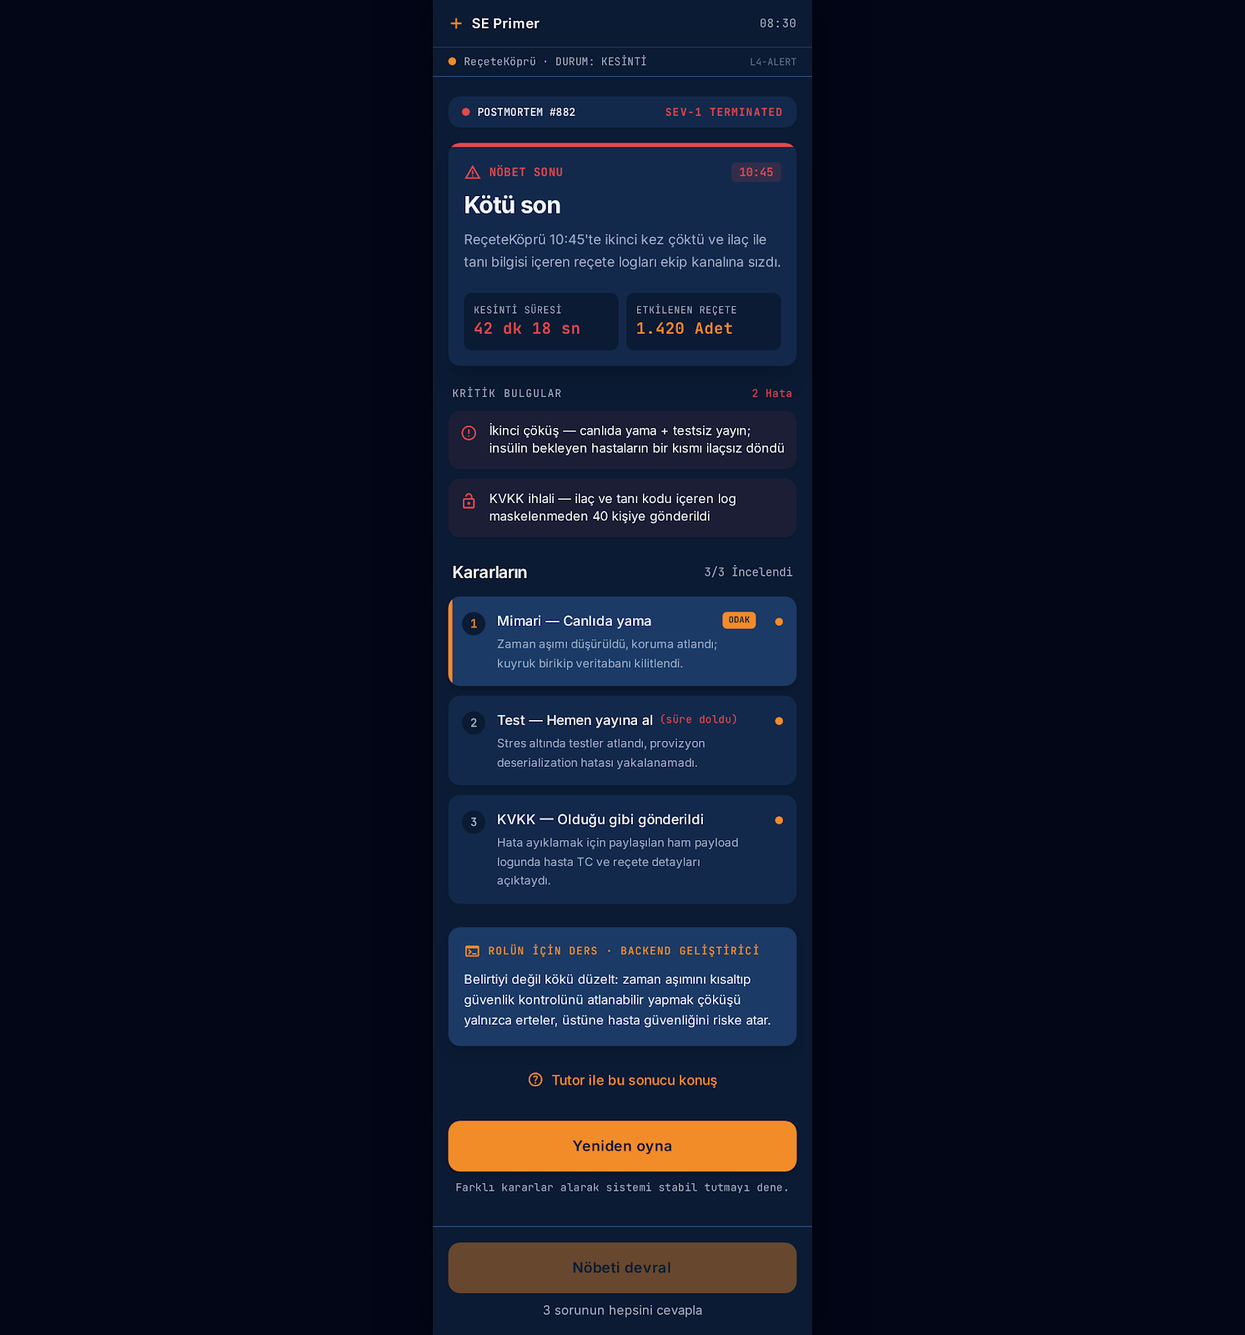
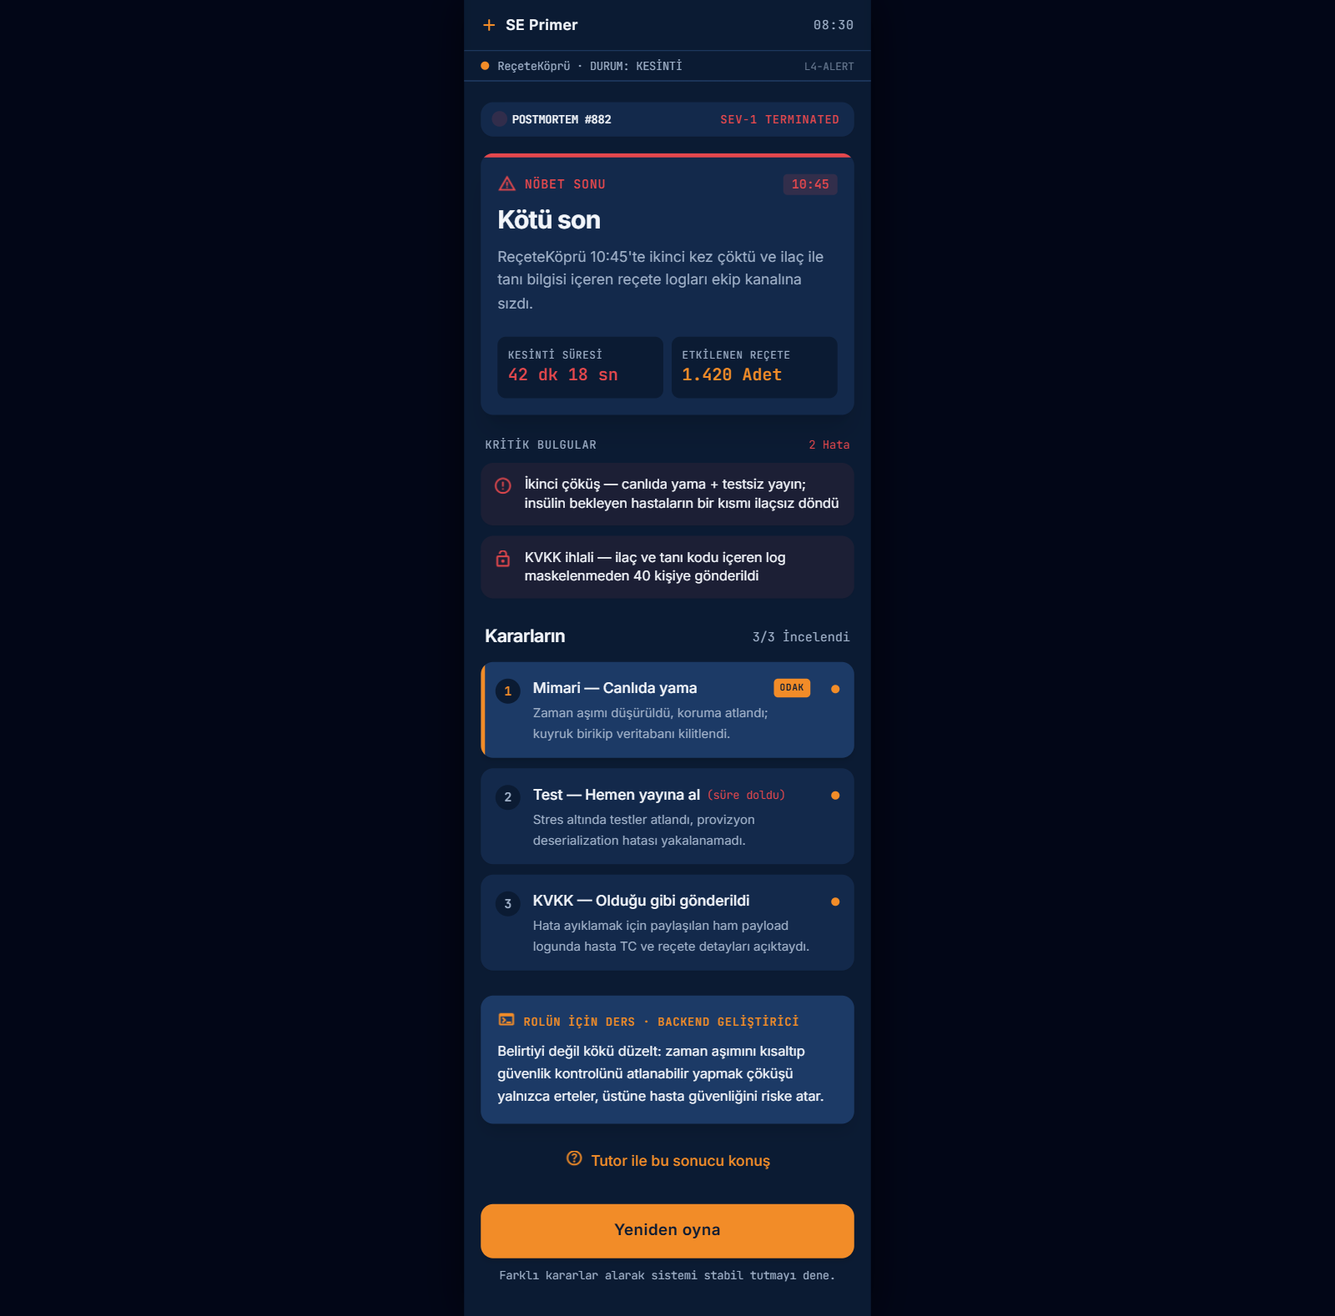
Tasarım-spec uyumsuzlukları çözüldü

Changed region(s): [[0.3389, 0.0, 0.647, 0.9937]]

diff --git a/design/html/son-kotu.html b/design/html/son-kotu.html
@@ -1,14 +1,12 @@
-<!DOCTYPE html>
-
-<html lang="tr"><head>
-<meta charset="utf-8"/>
-<meta content="width=390, initial-scale=1.0, maximum-scale=1.0, user-scalable=no" name="viewport"/>
+<!DOCTYPE html><html lang="tr"><head>
+<meta charset="utf-8">
+<meta content="width=390, initial-scale=1.0, maximum-scale=1.0, user-scalable=no" name="viewport">
 <title>SE Primer - Nöbet Devri</title>
 <!-- Google Fonts: Inter & JetBrains Mono -->
-<link href="https://fonts.googleapis.com" rel="preconnect"/>
-<link crossorigin="" href="https://fonts.gstatic.com" rel="preconnect"/>
-<link href="https://fonts.googleapis.com/css2?family=Inter:wght@400;500;600;700&amp;family=JetBrains+Mono:wght@400;500;600&amp;display=swap" rel="stylesheet"/>
-<link href="https://fonts.googleapis.com/css2?family=Material+Symbols+Outlined:wght,FILL@100..700,0..1&amp;display=swap" rel="stylesheet"/>
+<link href="https://fonts.googleapis.com" rel="preconnect">
+<link crossorigin="" href="https://fonts.gstatic.com" rel="preconnect">
+<link href="https://fonts.googleapis.com/css2?family=Inter:wght@400;500;600;700&amp;family=JetBrains+Mono:wght@400;500;600&amp;display=swap" rel="stylesheet">
+<link href="https://fonts.googleapis.com/css2?family=Material+Symbols+Outlined:wght,FILL@100..700,0..1&amp;display=swap" rel="stylesheet">
 <script src="https://cdn.tailwindcss.com"></script>
 <script id="tailwind-config">
     tailwind.config = {
@@ -63,7 +61,7 @@
       animation: blink 1.4s ease-in-out infinite;
     }
   </style>
-<meta content="mobile_stack" name="shell-type"/></head>
+<meta content="mobile_stack" name="shell-type"></head>
 <body class="bg-slate-950 flex justify-center">
 <div class="mobile-container flex flex-col justify-between overflow-x-hidden text-[#F2F5FA]">
 <!-- TOP SECTION: HEADER & STICKY STATUS -->
@@ -73,7 +71,7 @@
 <!-- Brand Left -->
 <div class="flex items-center gap-2">
 <!-- Pharmacy Plus / Cross Icon in Orange -->
-<svg class="w-4 h-4 text-[#F28C28]" fill="none" stroke="currentColor" stroke-linecap="round" stroke-linejoin="round" stroke-width="2.5" viewbox="0 0 24 24">
+<svg class="w-4 h-4 text-[#F28C28]" fill="none" stroke="currentColor" stroke-linecap="round" stroke-linejoin="round" stroke-width="2.5" viewBox="0 0 24 24">
 <line x1="12" x2="12" y1="5" y2="19"></line>
 <line x1="5" x2="19" y1="12" y2="12"></line>
 </svg>
@@ -94,7 +92,7 @@
 </div>
 </header>
 <!-- MAIN SCROLLABLE CONTENT -->
-<main class="flex-1 px-4 pt-5 pb-36 flex flex-col gap-6"><div class="flex flex-col w-full">
+<main class="flex-1 px-4 pt-5 flex flex-col gap-6 pb-8"><div class="flex flex-col w-full">
 <!-- System Diagnostic Header / Secondary Live Incident Info -->
 <div class="flex items-center justify-between font-mono text-[11px] text-[#9FB0C8] bg-[#13294B] px-3.5 py-2 rounded-xl mb-4 shadow-sm">
 <div class="flex items-center gap-2">
@@ -256,15 +254,8 @@
   </script>
 </div></main>
 <!-- 7. STICKY BOTTOM BUTTON & HELPER TEXT -->
-<div class="fixed bottom-0 left-1/2 -translate-x-1/2 w-[390px] bg-[#0B1B33]/95 backdrop-blur-md border-t border-[#2A4A7A] p-4 flex flex-col items-center gap-2 z-40">
-<!-- Disabled Primary Button: 52px, orange fill, 12px radius, 40% opacity -->
-<button class="w-full h-[52px] rounded-[12px] bg-[#F28C28] text-[#0B1B33] font-semibold text-[15px] tracking-wide flex items-center justify-center opacity-40 cursor-not-allowed select-none" disabled="">
-        Nöbeti devral
-      </button>
-<!-- Secondary Helper Text -->
-<div class="text-[13px] text-[#9FB0C8] font-normal">
-        3 sorunun hepsini cevapla
-      </div>
+
 </div>
-</div>
+
+
 </body></html>

diff --git a/DESIGN.md b/DESIGN.md
@@ -2,9 +2,11 @@
 
 > Stitch projesindeki tasarım sisteminden ve dışa aktarılan HTML'den çıkarılmıştır.
 
+> **Kural:** Metin ve davranışın tek doğru kaynağı spec.md'dir; Stitch ekranları yalnızca görsel referanstır. Ekranlardaki örnek sayılar ve metinler uygulamaya taşınmaz.
+
 Kaynak dosyalar: `design/html/*.html` (Stitch dışa aktarımı), `design/*.png` (ekran görüntüleri).
 Bu belgedeki tüm değerler bu HTML dosyalarında geçen gerçek değerlerdir. HTML'de karşılığı olmayan değerler **belirtilmemiş** olarak işaretlenmiştir.
-Davranış ve metinlerde tek doğruluk kaynağı `spec.md`'dir. Farklar en alttaki uyumsuzluk bölümündedir.
+Ekranlarla spec arasındaki farklar ve her biri için alınan karar en alttaki uyumsuzluk bölümündedir.
 
 ---
 
@@ -241,7 +243,13 @@ Stitch HTML'lerinde **hiç `data-testid` yoktur**. Aşağıdaki adlar `spec.md` 
 
 ## 9. Koşullu görünen bileşenler
 
-Sahne ekranı tasarımda **üç koşullu bileşeni birlikte** göstermektedir. Bu gerçek bir oyun durumu değildir, yalnızca bileşenlerin görünümünü göstermek için bir arada çizilmiştir. Uygulamada:
+**Süre sayacı ile ipucu kartı birbirini dışlar.** Aynı karar ekranında hiçbir zaman birlikte görünmezler:
+
+- **Yeni başladım:** ipucu kartı var, sayaç yok.
+- **Biraz deneyimim var:** ipucu kartı gizli (`hint-toggle` ile açılır), sayaç yok.
+- **Deneyimliyim:** 60 sn sayaç var, ipucu kartı ve `hint-toggle` yok.
+
+Sahne taslağında (`design/sahne.png`) sayacın, ipucu kartının ve odak rozetinin birlikte görünmesinin tek nedeni tüm durumları tek taslakta göstermektir. Bu gerçek bir oyun durumu değildir. Uygulamada:
 
 | Bileşen | `data-testid` | Ne zaman görünür (spec §2) |
 |---|---|---|
@@ -256,42 +264,52 @@ Son ekranında karar özetindeki "ODAK" rozeti ve vurgulu satır da hedefe göre
 
 ## 10. Ekranlar ile spec.md arasındaki uyumsuzluklar
 
-> `spec.md` değiştirilmemiştir. Bu liste uygulama sırasında hangisinin esas alınacağına karar vermek içindir.
+Her maddenin kararı dört seçenekten biridir:
+
+- **spec geçerli:** Uygulamada spec metni ve davranışı kullanılır.
+- **Stitch'te düzeltildi:** Ekran yeniden dışa aktarıldı.
+- **spec'e eklendi:** Eksik tanım spec.md'ye eklendi.
+- **dekoratif öğe, test edilmez:** Görsel olarak kullanılabilir, `data-testid` almaz. Gösterilen sayılar spec'teki senaryoyla (§3: 142 eczane, kuyrukta 1.240 reçete, 10:45'te ikinci çöküş vb.) çelişmemelidir.
 
 ### 10.1 Ekranda olup spec'te olmayan öğeler
 
-1. **Üst çubuk ve durum şeridi** (tüm ekranlar): "SE Primer", saat (08:30 / 10:45 / 12:00), "ReçeteKöprü · DURUM: KESİNTİ / STABİL", "L4-ALERT" / "L4-NORMAL".
-2. **Giriş:** "NÖBET DEVRİ" etiketi, "Nöbetçi sensin" başlığı, "Önce seni tanıyalım…" açıklaması, "ANKET İLERLEMESİ 2 / 3" çubuğu, "3 sorunun hepsini cevapla" yardımcı metni, seviye seçeneklerinin alt açıklamaları ("Her kararda ipucu görürsün." vb.), rol ikonları.
-3. **Sahne:** "Karar 1 / 3" ilerlemesi ve "KRİZ AŞAMASI" etiketi, "MİMARİ" kategori rozeti, izleme satırı ("Kuyruktaki reçete: 1.240 · Etkilenen eczane: 142 · HTTP 503"; sayılar §3'te geçiyor ama UI öğesi olarak tanımlı değil), seçeneklerdeki harf daireleri, tutor alt başlığı "Cevabı söylemez, düşünmeni sağlar.", çevrimiçi noktası, "T" avatarı, sürükleme tutamağı.
-4. **Son ekranları:** "POSTMORTEM #882" şeridi ("SEV-1 TERMINATED" / "ÇÖZÜLDÜ · STABİL"), "NÖBET SONU" etiketi ve saat rozeti, metrik ızgarası (Kötü: "Kesinti süresi 42 dk 18 sn", "Etkilenen reçete 1.420 Adet"; İyi: "14 dk", "Başarılı reçete 1.420 Adet"), "Kritik Bulgular · 2 Hata", "3/3 İncelendi" / "3/3 Başarılı", karar satırlarındaki açıklamalar, "Farklı kararlar alarak sistemi stabil tutmayı dene." metni.
-5. **"Rolün için ders" metinleri** ("Belirtiyi değil kökü düzelt…", "Geri dönüş yolu bir güvenlik ağıdır…"): spec bu kartı tanımlıyor (`ending-role-lesson`) ama metinlerini vermiyor.
-6. **Kötü son ekranında artık kalmış alt çubuk:** Giriş ekranındaki pasif "Nöbeti devral" butonu ve "3 sorunun hepsini cevapla" metni son ekranında da duruyor. Stitch kopyalama hatası, uygulamaya alınmamalı.
-7. **"Yeniden oyna" betiği:** Buton metni "Sistem Sıfırlanıyor..." olur ve sayfayı yeniler (`window.location.reload()`). Spec'te bu metin yok, yalnızca `Karsilama`'ya dönüş var.
-8. **`<title>`:** Son ekranlarında da "SE Primer - Nöbet Devri" yazıyor (giriş ekranından kalma).
+| # | Öğe | Karar |
+|---|---|---|
+| 1 | **Üst çubuk ve durum şeridi** (tüm ekranlar): "SE Primer", saat (08:30 / 10:45 / 12:00), "ReçeteKöprü · DURUM: KESİNTİ / STABİL", "L4-ALERT" / "L4-NORMAL". | dekoratif öğe, test edilmez |
+| 2 | **Giriş:** "NÖBET DEVRİ" etiketi, "Nöbetçi sensin" başlığı, "Önce seni tanıyalım…" açıklaması, "ANKET İLERLEMESİ 2 / 3" çubuğu, "3 sorunun hepsini cevapla" yardımcı metni, seviye seçeneklerinin alt açıklamaları ("Her kararda ipucu görürsün." vb.), rol ikonları. | dekoratif öğe, test edilmez |
+| 3 | **Sahne:** "Karar 1 / 3" ilerlemesi ve "KRİZ AŞAMASI" etiketi, "MİMARİ" kategori rozeti, izleme satırı ("Kuyruktaki reçete: 1.240 · Etkilenen eczane: 142 · HTTP 503"), seçeneklerdeki harf daireleri, tutor alt başlığı "Cevabı söylemez, düşünmeni sağlar.", çevrimiçi noktası, "T" avatarı, sürükleme tutamağı. | dekoratif öğe, test edilmez (izleme satırındaki sayılar §3 ile uyumlu) |
+| 4 | **Son ekranları, postmortem ve metrikler:** "POSTMORTEM #882" şeridi ("SEV-1 TERMINATED" / "ÇÖZÜLDÜ · STABİL"), "NÖBET SONU" etiketi ve saat rozeti, metrik ızgarası (Kötü: "42 dk 18 sn", "1.420 Adet"; İyi: "14 dk", "1.420 Adet"), "Kritik Bulgular · 2 Hata", "3/3 İncelendi" / "3/3 Başarılı", "Farklı kararlar alarak sistemi stabil tutmayı dene." metni. | dekoratif öğe, test edilmez. Ekrandaki "1.420" (§3'te 1.240) ve iyi sondaki "14 dk" (§3 K1-A'da geri dönüş 15 dk, toparlanma 20. dakika) spec'le çeliştiği için uygulamaya taşınmaz. |
+| 5 | **Son ekranları, karar satırı açıklamaları** ("kuyruk birikip veritabanı kilitlendi" vb.). | spec geçerli (karar özeti §3'teki seçimlerden üretilir, bkz. 10.3) |
+| 6 | **"Rolün için ders" metinleri** ("Belirtiyi değil kökü düzelt…", "Geri dönüş yolu bir güvenlik ağıdır…"): Spec kartı tanımlıyordu (`ending-role-lesson`) ama metinlerini vermiyordu. | spec'e eklendi (spec §4.3, rol × son türü tablosu) |
+| 7 | **Kötü son ekranında artık kalmış alt çubuk:** Giriş ekranından kalan pasif "Nöbeti devral" butonu ve "3 sorunun hepsini cevapla" metni. | Stitch'te düzeltildi (`design/son-kotu.png` ve `design/html/son-kotu.html` yenilendi) |
+| 8 | **"Yeniden oyna" betiği:** Buton metni "Sistem Sıfırlanıyor..." olur ve sayfa yenilenir (`window.location.reload()`). | spec'e eklendi (spec §4.5: sayfa yenilenmez, durum ve profil sıfırlanır, `Karsilama`'ya dönülür) |
+| 9 | **`<title>`:** Son ekranlarında da "SE Primer - Nöbet Devri" yazıyor. | dekoratif öğe, test edilmez |
 
 ### 10.2 Spec'te olup ekranda olmayan öğeler
 
-1. **Ekranlar:** E1 Karşılama (`start-button`), E3 Kriz brifingi (`briefing-text`, `briefing-role-message`, `briefing-continue`), E5 Sonuç ekranı (`outcome-what`, `outcome-why`, `outcome-timeout-note`, `outcome-deep` "Derinlemesine" bölümü, `outcome-continue`).
-2. **`data-testid`'ler:** Stitch HTML'lerinin hiçbirinde yok.
-3. **Sahne:** `hint-toggle` ("İpucu göster") butonu çizilmemiş. `tutor-open` butonu görünmüyor (panel açık çizildiği için tetikleyici yok). `tutor-loading` göstergesi yok.
-4. **Sahne, koşul çelişkisi:** Sayaç (yalnızca deneyimli) ile ipucu kartı (deneyimlide hiç yok) aynı anda gösteriliyor. Spec §2.1'e göre bu iki öğe aynı oyunda birlikte bulunamaz (bkz. §9).
-5. **Kötü son:** §3'teki **klinik sonuç notu** (ikinci çöküş nedeninde gösterilecek) ekranda yok.
-6. **İyi son:** *Kıl payı* İYİ durumu (#2, #3) için riskli kararı belirten bir öğe tasarlanmamış. Ekranda yalnızca temiz İYİ (#1) var.
-7. **Süre doldu notu:** Sahnede yok (E5'e ait). Son ekranında yalnızca "(süre doldu)" etiketi var.
+| # | Öğe | Karar |
+|---|---|---|
+| 1 | **Ekranlar:** E1 Karşılama (`start-button`), E3 Kriz brifingi (`briefing-text`, `briefing-role-message`, `briefing-continue`), E5 Sonuç ekranı (`outcome-what`, `outcome-why`, `outcome-timeout-note`, `outcome-deep` "Derinlemesine" bölümü, `outcome-continue`). | spec geçerli (ekranlar spec'e göre, bu belgedeki görsel dille yapılır) |
+| 2 | **`data-testid`'ler:** Stitch HTML'lerinin hiçbirinde yok. | spec geçerli (§8'deki adlar kullanılır) |
+| 3 | **Sahne:** `hint-toggle` ("İpucu göster") butonu, `tutor-open` butonu (panel açık çizildiği için tetikleyici yok) ve `tutor-loading` göstergesi çizilmemiş. | spec geçerli |
+| 4 | **Sahne, koşul çelişkisi:** Sayaç ile ipucu kartı aynı anda gösteriliyor. | spec geçerli (birbirini dışlar, spec §2.1; bkz. §9) |
+| 5 | **Kötü son:** §3'teki **klinik sonuç notu** (ikinci çöküş nedeninde gösterilecek) ekranda yok. | spec geçerli |
+| 6 | **İyi son:** *Kıl payı* İYİ durumu (#2, #3) için riskli kararı belirten bir öğe tasarlanmamış. Ekranda yalnızca temiz İYİ (#1) var. | spec geçerli |
+| 7 | **Süre doldu notu:** Sahnede yok (E5'e ait). Son ekranında yalnızca "(süre doldu)" etiketi var. | spec geçerli |
 
 ### 10.3 Metin farkları
 
-| Yer | Ekrandaki metin | spec.md'deki metin |
-|---|---|---|
-| Giriş, profil butonu | "Nöbeti devral" | "Devam" (§8 E2, `profile-submit`) |
-| Giriş, hedef seçeneği | "Mimari ve dağıtım kararları" | "Mimari / dağıtım kararları" (§2.3) |
-| Sahne, seçenek A | "A · Geri dön" / "v3.1 sürümüne rollback" | "Geri dön (v3.1'e rollback)" |
-| Sahne, seçenek B açıklaması | "Zaman aşımını kısalt, etkileşim kontrolünü atlanabilir yap" | "zaman aşımını kısalt, kontrolü atlanabilir yap" |
-| Son ekranları, tutor tetikleyici | "Tutor ile bu sonucu konuş" | "Tutor'u aç" (§8 E6) |
-| Kötü son, açıklama | "ReçeteKöprü 10:45'te ikinci kez çöktü ve ilaç ile tanı bilgisi içeren reçete logları ekip kanalına sızdı." | İki ayrı metin: "…10:45'te ikinci kez çöktü. İnsülin ve tansiyon ilacı bekleyen hastaların bir kısmı ilaçsız eve döndü." ve "İlaç ve tanı bilgisi içeren reçete logu, dış tedarikçi dahil 40 kişiye maskelenmeden gitti. Kurum ihlali KVK Kurulu'na bildirdi." (§4.3) |
-| Kötü son, K1 satırı | "Zaman aşımı düşürüldü, koruma atlandı; kuyruk birikip veritabanı kilitlendi." | Veritabanı kilitlenmesi yok. Neden: kapatılmayan bağlantılar ve tekrar deneme yükü, fail-open kontrol (§3 K1-B) |
-| Kötü son, K2 satırı | "…provizyon deserialization hatası yakalanamadı." | Deserialization hatası yok. Neden: devre kesici ayarlarının elle değiştirilen zaman aşımıyla çakışması, tekrar deneme fırtınası (§3 K2-B) |
-| İyi son, K1 satırı ve metrik | "…provizyon kilitlenmesi anında çözüldü." / "Kesinti süresi 14 dk" | Geri dönüş 15 dk sürer, bazı eczaneler 20. dakikada toparlanır (§3 K1-A) |
-| İyi son, K2 satırı | "Temel işlevler ve reçete provizyonu hızlı regresyon testiyle doğrulandı." | Staging'de 20 dk hedefli test (provizyon yavaş yanıt simülasyonu + yük). Devre kesicideki fail-open hatasını yakalar (§3 K2-A) |
-| Kötü / İyi son, etkilenen reçete | "1.420 Adet" | Kuyrukta 1.240 reçete (§3). 1.420 değeri spec'te yok |
-| Giriş ↔ sahne/son tutarlılığı | Girişte seçili rol "Test / QA mühendisi" | Sahne ve son ekranlarında rol "Backend geliştirici" gösteriliyor (örnek ekranlar farklı profillerle çizilmiş) |
+| Yer | Ekrandaki metin | spec.md'deki metin | Karar |
+|---|---|---|---|
+| Giriş, profil butonu | "Nöbeti devral" | "Devam" (§8 E2, `profile-submit`) | spec geçerli |
+| Giriş, hedef seçeneği | "Mimari ve dağıtım kararları" | "Mimari / dağıtım kararları" (§2.3) | spec geçerli |
+| Sahne, seçenek A | "A · Geri dön" / "v3.1 sürümüne rollback" | "Geri dön (v3.1'e rollback)" | spec geçerli |
+| Sahne, seçenek B açıklaması | "Zaman aşımını kısalt, etkileşim kontrolünü atlanabilir yap" | "zaman aşımını kısalt, kontrolü atlanabilir yap" | spec geçerli |
+| Son ekranları, tutor tetikleyici | "Tutor ile bu sonucu konuş" | "Tutor'u aç" (§8 E6) | spec geçerli |
+| Kötü son, açıklama | "ReçeteKöprü 10:45'te ikinci kez çöktü ve ilaç ile tanı bilgisi içeren reçete logları ekip kanalına sızdı." | Nedene göre iki ayrı metin (§4.3): ikinci çöküş ve KVKK ihlali | spec geçerli |
+| Kötü son, K1 satırı | "Zaman aşımı düşürüldü, koruma atlandı; kuyruk birikip veritabanı kilitlendi." | Veritabanı kilitlenmesi yok. Neden: kapatılmayan bağlantılar ve tekrar deneme yükü, fail-open kontrol (§3 K1-B) | spec geçerli |
+| Kötü son, K2 satırı | "…provizyon deserialization hatası yakalanamadı." | Deserialization hatası yok. Neden: devre kesici ayarlarının elle değiştirilen zaman aşımıyla çakışması, tekrar deneme fırtınası (§3 K2-B) | spec geçerli |
+| İyi son, K1 satırı ve metrik | "…provizyon kilitlenmesi anında çözüldü." / "Kesinti süresi 14 dk" | Geri dönüş 15 dk sürer, bazı eczaneler 20. dakikada toparlanır (§3 K1-A) | spec geçerli |
+| İyi son, K2 satırı | "Temel işlevler ve reçete provizyonu hızlı regresyon testiyle doğrulandı." | Staging'de 20 dk hedefli test (provizyon yavaş yanıt simülasyonu + yük), devre kesicideki fail-open hatasını yakalar (§3 K2-A) | spec geçerli |
+| Kötü / İyi son, etkilenen reçete | "1.420 Adet" | Kuyrukta 1.240 reçete (§3). 1.420 değeri spec'te yok | dekoratif öğe, test edilmez. Spec'le çelişen sayı uygulamaya taşınmaz. |
+| Giriş ↔ sahne/son tutarlılığı | Girişte seçili rol "Test / QA mühendisi" | Sahne ve son ekranlarında rol "Backend geliştirici" (örnek ekranlar farklı profillerle çizilmiş) | spec geçerli (rol kartı ve ders metni seçilen role göre §2.2 ve §4.3'ten gelir) |

diff --git a/spec.md b/spec.md
@@ -34,6 +34,8 @@ Oyun başında profil ekranında **3 soru** sorulur. Cevaplar oturum boyunca bel
 | **Biraz deneyimim var** | İpucu gizlidir. "İpucu göster" butonuyla açılabilir. | Yok | Açık |
 | **Deneyimliyim** | İpucu **hiç yoktur** (kutu ve buton gösterilmez). | **Her karar ekranında 60 sn** | Açık (süre işlemeye devam eder) |
 
+İpucu kartı ile süre sayacı birbirini dışlar: hiçbir seviyede aynı karar ekranında birlikte görünmezler (yeni başlayan: ipucu kartı var, sayaç yok; deneyimli: 60 sn sayaç var, ipucu kartı yok).
+
 İpucu metinleri (bkz. §3) cevabı söylemez, yalnızca düşünülecek boyutu gösterir. Tutor kuralları ipuçları için de geçerlidir (§5).
 
 ### 2.2 Soru 2 — Rol: "Bu krizde hangi roldesin?"
@@ -227,6 +229,14 @@ KÖTÜ  ⇔  (k3 = ham)  VEYA  (k1 = yama VE k2 = hemen)
 - **KÖTÜ / ikinci çöküş:** "ReçeteKöprü 10:45'te ikinci kez çöktü. İnsülin ve tansiyon ilacı bekleyen hastaların bir kısmı ilaçsız eve döndü." Bunun ardından §3'teki klinik sonuç notu gösterilir.
 - **KÖTÜ / KVKK ihlali:** "İlaç ve tanı bilgisi içeren reçete logu, dış tedarikçi dahil 40 kişiye maskelenmeden gitti. Kurum ihlali KVK Kurulu'na bildirdi."
 
+**"Rolün için ders" metinleri** (`ending-role-lesson`). Metin, oyuncunun rolüne ve son türüne göre seçilir. Kıl payı İYİ de İYİ metnini kullanır. KÖTÜ metni hem ikinci çöküş hem KVKK ihlali nedeni için geçerlidir.
+
+| Rol | İYİ son | KÖTÜ son |
+|---|---|---|
+| **Backend geliştirici** | "Bağımlı bir servis yavaşladığında sistemin ne yapacağı bir tasarım kararıdır. Zaman aşımı, devre kesici ve fail-closed kontrol kök nedeni çözer. Canlıda yapılan hızlı bir ayar ise yalnızca belirtiyi örter." | "Canlıda elle yapılan bir ayar da, maskelenmemiş bir log satırı da kodda görünmez ama sistemi bozar. Belirtiyi değil kökü düzelt. Logda yalnızca hatayı analiz etmeye yetecek alanları paylaş." |
+| **Test / QA mühendisi** | "Kriz anında test bütün akışları değil, en riskli akışı hedefler. Bağımlı servisin yavaşladığı durumu taklit etmek ve temiz bir geri dönüş yolu bulundurmak, uç durumların eczacının ekranına ulaşmasını engeller." | "Baskı altında atlanan her doğrulama adımı riski canlıya ya da paylaşım kanalına taşır. Bağımlı servis yavaşlarken neyin bozulduğunu ve paylaşılan verinin amaca uygun olup olmadığını doğrulamak da QA'nın işidir." |
+| **Proje yöneticisi** | "Hız ile risk arasındaki dengeyi görünür kıldın. Birkaç dakikalık gecikme, ikinci bir kesintiden ve bir veri ihlalinden çok daha ucuzdur. Paydaşlara bunu söyleyebilmek de krizi yönetmenin bir parçasıdır." | "Kapıdaki baskı en hızlı görünen seçeneği cazip kılar. Ama ikinci bir kesinti ya da bir veri ihlali, kazanılan dakikalardan çok daha pahalıya gelir. Riskli bir kararı kimin, hangi bilgiyle onayladığını görünür kıl." |
+
 ### 4.4 Süre dolması
 
 - Sayaç yalnızca **Deneyimliyim** seviyesinde ve yalnızca `K1`, `K2`, `K3` durumlarında çalışır. Her karar ekranında 60'tan başlar.
@@ -234,6 +244,12 @@ KÖTÜ  ⇔  (k3 = ham)  VEYA  (k1 = yama VE k2 = hemen)
 - Sonuç ekranında normal metinlerin üstünde **"Süre doldu"** notu gösterilir (§3'teki "süre dolarsa" metinleri).
 - Sonuç ekranlarında ve tutor paneli açıkken sayaç **durmaz**. Sayaç yalnızca karar ekranından çıkıldığında sıfırlanır.
 - Süre dolmasıyla verilen kararlar son kuralına normal kararlar gibi girer. Son ekranındaki özette "(süre doldu)" etiketiyle gösterilir.
+
+### 4.5 Yeniden oyna
+
+- `restart-button` sayfayı **yenilemez** (`location.reload()` kullanılmaz).
+- Oyun durumu (`k1`, `k2`, `k3`, her karar için `zamanAsimi`, sayaç) ve profil (`seviye`, `rol`, `hedef`) sıfırlanır.
+- Oyun `Karsilama` durumuna (E1) döner.
 
 ---
 
